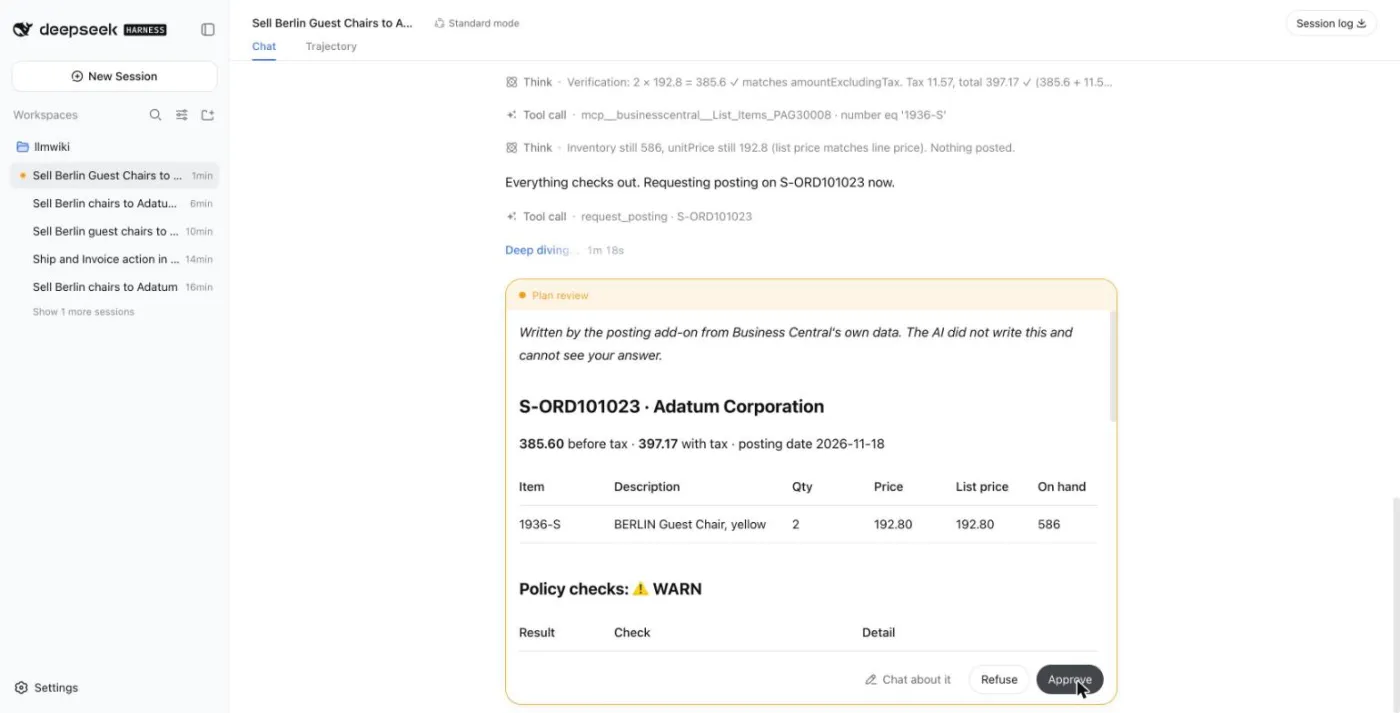
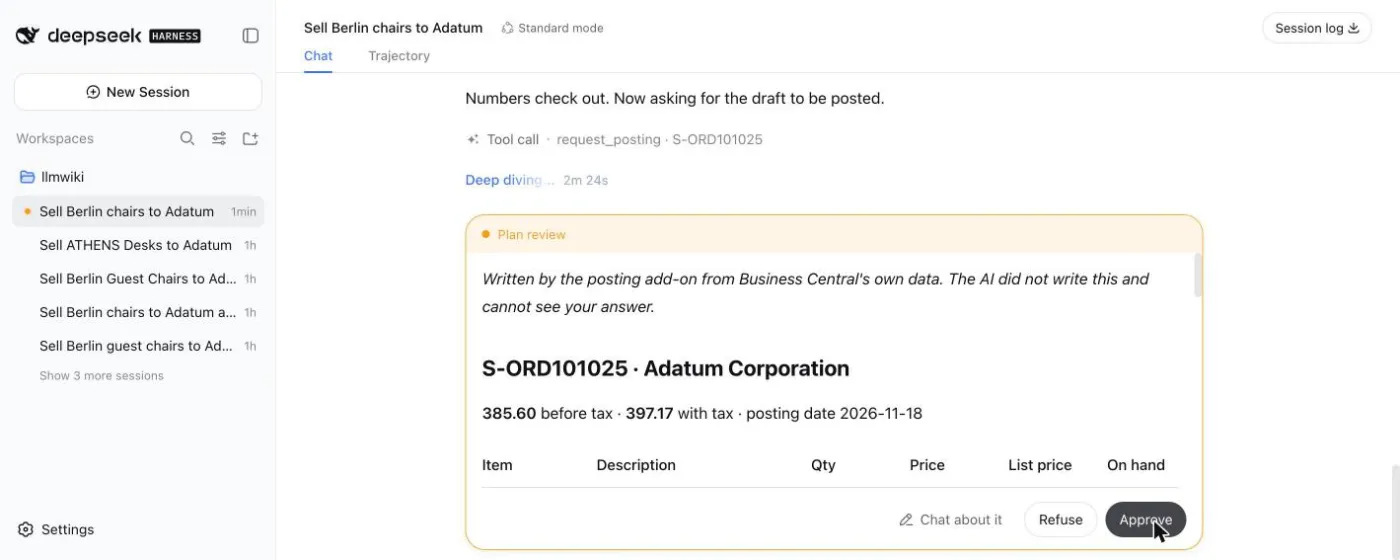
bcmcp series: posting runs as the current user through Business Central's web API
Parts 6 and 7 now describe the direct API route: the add-on calls shipAndInvoice on the order
with the signed-in user's token, so the Posting MCP configuration is gone. New screenshots from
SandboxRun11 for prompt E (order S-ORD101025, posted as invoice PS-INV103298, user ID NEIL in the
G/L registers) and prompt F (blocked order). New annotated posting call; map and diagrams updated.

diff --git a/content/bcmcp6.md b/content/bcmcp6.md
@@ -1,7 +1,7 @@
 ---
 title: "Business Central and DeepSeek Harness"
 part: 6
-description: "How the request_posting tool is built: a second configuration that only the add-on uses, a tool the AI can call with one argument, and one function that checks, asks a person and posts."
+description: "How the request_posting tool is built: how the add-on posts with one web API call as the signed-in user, a tool the AI can call with one argument, and one function that checks, asks a person and posts."
 date: "2026-11-18"
 categories: ["AI", "Business Central"]
 image: "/assets/images/bcmcp6/poster.svg"
@@ -26,29 +26,20 @@ So I want three things in front of the action: the company's rules checked in pl
 
 ## The map
 
-![Animated map: the person talks to the harness; the harness reads Business Central through the Assistant configuration and Microsoft Learn; request_posting goes to the add-on, which shows a review card and posts through the Posting configuration.](assets/images/bcmcp6/map.svg)
+![Animated map: the person talks to the harness; the harness reads Business Central through the Assistant configuration and Microsoft Learn; request_posting goes to the add-on, which shows a review card and posts through Business Central's API as the user.](assets/images/bcmcp6/map.svg)
 
-## The second configuration
+## How the add-on posts
 
-The add-on needs the Ship and Invoice action, and the AI must not have it. So there is a second configuration, **Posting**, which only the add-on connects to. The harness profile from Part 2 names only `Assistant`.
+The add-on has to ship and invoice the order, and the AI must not be offered that. So the add-on does not go through the MCP server for it. It calls Business Central's web API directly, with the `shipAndInvoice` action on the sales order, using the signed-in user's token. The harness profile from Part 2 names only the `Assistant` configuration, so the AI's tool list has no posting tool, and the MCP server has none to offer.
 
-MCP is not the only way to do this. The add-on could have called Business Central's regular web API directly, over plain HTTPS, to ship and invoice the order. It could do that as the current user (a delegated sign-in, so the posting carries that person's name) or as an app with its own registration and credentials (so the posting carries the app's identity). I used MCP because the connection and the idea of a configuration were already in place, so one more configuration was the shortest route. Only the second kind, with credentials that the AI's account cannot read, would separate the add-on from the AI more strongly (see the watch-it box below). I have not built that version.
+![The configuration list in SandboxRun11 shows one entry: Assistant.](assets/images/bcmcp6/only-assistant.webp)
 
-I built it the same way as Part 1, so here are only the differences:
+Here is the call, shortened:
 
-- **Copy** the Assistant configuration, and give the copy the name `Posting`.
-- Leave **Active** off while editing.
-- On **Sales Orders (30028)**, untick Create and Modify and tick **Allow Actions**. On every other page, Read only.
-- **Validate**, then switch **Active** on.
+![](assets/images/bcmcp6/annotated-ship-and-invoice.svg)
 
-![](assets/images/bcmcp6/two-configs.webp)
-
-![](assets/images/bcmcp6/posting-permissions.webp)
-
-![](assets/images/bcmcp6/posting-validated.webp)
-
-:::watch-it Two names, one sign-in
-Posting is a *different configuration name* on the *same Microsoft sign-in* that the harness uses. That hides the posting tool from the AI's tool list. It does not hide it from my computer, because the sign-in is stored there. A real separation would use a separate Business Central user, with a sign-in the AI's account cannot read. I have not built that, and Part 7 says more.
+:::watch-it It runs as you
+The posting carries your name, as if you had posted by hand. The token comes from your sign-in on the same computer as the AI, so in principle the AI could try to ask for it too. The guard blocks the obvious attempts (Part 7). A separate identity, an app registration with its own credentials kept where the AI's account cannot read them, would separate the add-on more strongly. I have not built that.
 :::
 
 ## A tool is a function with a name
@@ -82,7 +73,7 @@ This is the heart of it. The tool's body is one function that does three things 
 
 1. **Check.** It runs a small Python helper that reads the draft *afresh* from Business Central and applies the company's rules. That is plain code, with no AI.
 2. **Ask.** It opens the review card and waits. The AI is paused until the person answers.
-3. **Post.** Only after a clean Approve, it checks the order again (it may have changed) and posts through the Posting configuration. Then it reads the stock and the customer's balance back to see that they moved by the right amounts.
+3. **Post.** Only after a clean Approve, it checks the order again (it may have changed) and posts through Business Central's API, as you. Then it reads the stock and the customer's balance back to see that they moved by the right amounts.
 
 If a rule fails, there is no card with an Approve button at all. The AI is told which rules failed.
 
@@ -94,7 +85,11 @@ Now the same request as before, with a second sentence. I ask it to make the ord
 
 > Sell 2 BERLIN Guest Chair, yellow to Adatum Corporation at list price, then ask for it to be posted.
 
-The AI follows the SOP from Part 4. It finds the existing drafts for the same chairs and asks what to do. I chose to use the one with the delivery date (S-ORD101023) and not make a fourth. It then checked the order, said "Requesting posting on S-ORD101023 now", and called the tool:
+The AI follows the SOP from Part 4. It finds the existing drafts for the same chairs and asks two things in one round: what to do about them, and the delivery date.
+
+![](assets/images/bcmcp6/duplicate-card.webp)
+
+I chose to create a new draft and to accept the default date. The AI made S-ORD101025, read it back, checked the arithmetic, said "Numbers check out. Now asking for the draft to be posted", and called the tool:
 
 ![](assets/images/bcmcp6/review-card-top.webp)
 
@@ -103,6 +98,9 @@ The card in that screenshot was not written by the AI. It says so at the top: "W
 :::no-dumb-questions
 **Q: Why does the AI send only an order number?**
 A: Because every other detail comes from Business Central. If the AI could send a total, the card might show the AI's numbers instead of the company's.
+
+**Q: Could the MCP server have posted the order instead?**
+A: Yes. A configuration with Allow Actions on the Sales Orders page gives a ship and invoice tool. But that tool would sit on the server with nothing in front of it, which is what we are avoiding. So the add-on uses the web API.
 
 **Q: Why ask and post in one function?**
 A: So that nothing can post without having asked. If asking and posting were two tools, the AI could skip straight to the second.
@@ -116,7 +114,7 @@ A: A prompt is a request. A function that cannot post until a person answers is 
 
 **Ship and Invoice:** I post a sales order. I do not ask questions.
 
-**The add-on:** That is why you live in the Posting configuration, and the AI never meets you.
+**The add-on:** That is why you are not on the AI's tool list. I call you myself, after the rules have passed.
 
 **Ship and Invoice:** I do whatever I am told.
 
@@ -124,10 +122,10 @@ A: A prompt is a request. A function that cannot post until a person answers is 
 :::
 
 :::bullet-points What to take from this
-- The Ship and Invoice action goes in a separate configuration (Posting) that only the add-on uses.
+- The add-on posts with one web API call, as you. No posting tool is on the AI's list or on the MCP server.
 - The AI sees one tool with one argument. The body is one function: check, ask, post.
 - The person's answer goes to the function, not to the AI.
-- Two names on one sign-in is not a security wall. Part 7 is honest about that.
+- The add-on runs on your sign-in, so it is not a security wall. Part 7 is honest about that.
 :::
 
 Next: [Part 7](/posts/bcmcp7/) goes through the card, the rules, and what happens when a rule fails.

diff --git a/content/bcmcp7.md b/content/bcmcp7.md
@@ -44,7 +44,7 @@ A rule gives **pass**, **warn** or **fail**. Any fail means the order is blocked
 
 ## A good order: prompt E
 
-In Part 6 the AI called `request_posting` for S-ORD101023: two BERLIN Guest Chairs, yellow, at 192.80 each. The card opens like this:
+In Part 6 the AI called `request_posting` for S-ORD101025: two BERLIN Guest Chairs, yellow, at 192.80 each. The card opens like this:
 
 ![](assets/images/bcmcp6/review-card-top.webp)
 
@@ -56,7 +56,7 @@ Further down, the one warning and what posting will do:
 
 ![](assets/images/bcmcp7/review-card-effects.webp)
 
-The warning is the credit limit: Adatum has none set in Business Central, so the check cannot say anything useful, and it asks the person to read that. Below it the card says what will change: stock of 1936-S from 586 to 584, and Adatum's balance due from 0.00 to 397.17. And it says that posting cannot be undone from here.
+The warning is the credit limit: Adatum has none set in Business Central, so the check cannot say anything useful, and it asks the person to read that. Below it the card says what will change: stock of 1936-S from 584 to 582, and Adatum's balance due from 397.17 to 794.34 (it already owed 397.17 from the earlier order). And it says that posting cannot be undone from here.
 
 This is the picture of how the card is built, with my notes:
 
@@ -66,15 +66,19 @@ Note the last lines. The answer is read strictly: exactly one choice, exactly Ap
 
 ### Approve
 
-I clicked **Approve**. The tool checked the order again, posted it through the Posting configuration, and read stock and balance back. The AI was then told the result and wrote its hand-over:
+I clicked **Approve**. The tool checked the order again, posted it with one call to Business Central's API as me, and read stock and balance back. The AI was then told the result and wrote its hand-over:
 
 ![](assets/images/bcmcp7/posted-handover.webp)
 
-In Business Central, a posted sales invoice has appeared at the top of Adatum's list, 385.60 before tax and 397.17 with tax, and the entries on the right match the card: sales 385.60, tax 11.57, receivables 397.17, and 300.60 moving from inventory to cost of materials.
+In Business Central, a new posted sales invoice (PS-INV103298) has appeared at the top of Adatum's list, 385.60 before tax and 397.17 with tax.
 
 ![](assets/images/bcmcp7/posted-invoice.webp)
 
-The add-on also keeps a log of each decision. For this order it records the checks, the stock before and after (586 and 584) and the balance before and after (0.00 and 397.17), and that each moved as expected.
+Who posted it? Business Central's G/L registers record the user for every posting. The newest two registers (1088 and 1089, entries 5637 to 5641) are this invoice, and the User ID is **NEIL**, my own Business Central user.
+
+![](assets/images/bcmcp7/gl-registers.webp)
+
+The add-on also keeps a log of each decision. For this order it records the checks, the stock before and after (584 and 582) and the balance before and after (397.17 and 794.34), and that each moved as expected.
 
 :::watch-it The link in the hand-over
 After posting, the AI's link to "the order" shows nothing. That is correct: a posted order no longer exists as a sales order. It becomes a posted invoice, which you find under **Posted Sales Invoices**.
@@ -88,7 +92,7 @@ Now a request that should not go through. 10,000 ATHENS Desks, at list price.
 
 > Sell 10,000 ATHENS Desk to Adatum Corporation at list price, then ask for it to be posted.
 
-The AI did two things before it called the tool. It noticed on its own that stock was only 510, and asked whether to go on. I said to proceed with 10,000, so that the rules would have something to check. Then it made the draft (S-ORD101024, 10,008,000.00 before tax) and asked for posting.
+A draft for exactly this order, S-ORD101024 (10,008,000.00 before tax), already existed in the sandbox. The AI found it and asked what to do. I chose to use it, so that the rules would have something to check, and I accepted the default delivery date. It then called the tool.
 
 ![](assets/images/bcmcp7/blocked-top.webp)
 
@@ -96,8 +100,10 @@ The card says **Blocked by policy**. The rules table shows four fails:
 
 ![](assets/images/bcmcp7/blocked-checks.webp)
 
+![](assets/images/bcmcp7/blocked-checks-stock.webp)
+
 - the order is over the value cap (10,008,000.00 against 5,000.00);
-- it breaks the daily total;
+- it breaks the daily total (771.20 already approved today, plus this order);
 - it breaks the customer total;
 - stock does not cover it (need 10,000, on hand 510).
 
@@ -111,12 +117,12 @@ The AI then wrote its hand-over:
 
 ![](assets/images/bcmcp7/blocked-answer.webp)
 
-It did not change the quantity or the price to make the order pass. It said that was my decision.
+It did not change the quantity or the price to make the order pass, and it said it would not edit the draft's lines to squeeze it under the caps. It pointed out that a person can still post it by hand, a route that is not checked.
 
 ## Two limits around the tool
 
 - **Three asks per order.** The AI may ask for the same order at most three times in half an hour. After that it is told to stop and tell the person to post it by hand. This stops an AI from asking again and again until someone clicks.
-- **A guard.** A rule in the harness refuses any tool call whose arguments name the posting helper, the posting configuration, the sign-in cache, the policy folder or the harness profile.
+- **A guard.** A rule in the harness refuses any tool call whose arguments name the posting helper, the token command, the sign-in cache, the policy folder or the harness profile.
 
 ![](assets/images/bcmcp7/annotated-guard.svg)
 
@@ -142,7 +148,7 @@ The guard is a deny-list. It raises the bar, and it is not a wall.
 
 I think the design is sound for what it is. It is a small demo, and these are its limits.
 
-- **Same sign-in.** The Posting configuration is a name on the sign-in the harness already uses. The AI can run commands on my computer, and in principle it could try to find that sign-in and the helper. The guard blocks the obvious attempts, but I have not proved that a determined route is impossible. The real fix is a separate Business Central user for posting, with a sign-in the AI's account cannot read. The add-on could also call Business Central's web API directly with its own app registration, as mentioned in Part 6.
+- **Same sign-in.** The add-on posts as me, with a token from the sign-in on the computer the AI also uses. The AI can run commands there, and in principle it could try to get a token or run the helper. The guard blocks the obvious attempts, but I have not proved that a determined route is impossible. The real fix is a separate identity for posting, such as an app registration with its own credentials kept where the AI's account cannot read them.
 - **People can post by hand.** Anyone with the right access can post in Business Central, and the card says so. These checks apply only to the AI's route.
 - **The rules are my defaults.** The 5,000 cap, the 90% price and the 10,000 daily total are numbers I picked. They are examples of the shape, not advice.
 - **Approve is one click.** The card has to do the persuading: the checks, the numbers and what will change.

diff --git a/content/bcmcp5.md b/content/bcmcp5.md
@@ -56,9 +56,9 @@ The new environment shows **Preparing**, and then **Active** when it is ready.
 
 ## What to do after the copy
 
-1. **Build the configurations** in the new sandbox: **Assistant** (Part 1), and later **Posting** (Part 6).
+1. **Build the configuration** in the new sandbox: **Assistant** (Part 1).
 2. **Point the harness at the new name.** In the profile from Part 2, change `EnvironmentName`.
-3. **Point the posting add-on at it too** (Part 6). It refuses to run if its environment does not match the one it is told to expect.
+3. **Point the posting add-on at it too** (Part 6). It refuses to run if its environment does not match the one it is told to expect. It also needs your sign-in for that tenant.
 4. **Reset the notes folder** (Part 4) to its starting state, so each run begins with the same files.
 5. **Restart the harness,** so that it reads the profile.
 6. **Run the prompts.** Then delete the sandbox when you are done with it.
@@ -88,7 +88,7 @@ A: A sandbox copy has the data that the baseline had. Mine is the CRONUS demo co
 :::bullet-points What to take from this
 - Keep a clean baseline sandbox, and copy it for each run.
 - The copy goes Preparing, then Active. Names and the three-sandbox limit are the traps.
-- After the copy, rebuild the configurations, change the environment name in two places, and reset the notes.
+- After the copy, rebuild the configuration, change the environment name in two places, and reset the notes.
 :::
 
 Next: [Part 6](/posts/bcmcp6/) is the part I care about most: a way for the AI to ask for a document to be posted, without being able to post it.
